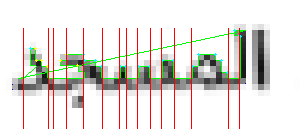
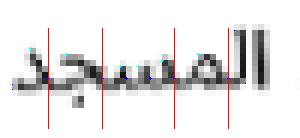
working on contour tracing

Changed region(s): [[0.06, 0.2029, 0.72, 0.9275], [0.72, 0.2029, 0.81, 0.9275], [0.72, 0.4348, 0.75, 0.5217]]

diff --git a/segmentation/contour.py b/segmentation/contour.py
@@ -82,19 +82,29 @@ left = list.index(leftmost)
 top = list.index(topmost)
 bottom = list.index(bottommost)
 l=[]
-print(base_line)
+splitting_index = 0
+# print(left)
+k=0
 for i in range(0,len(cnt)):
 	x = cnt[i][0][0]
 	y = cnt[i][0][1]
+	if x == leftmost[0]:
+		splitting_index = k
+
 	if y <= base_line :
+		k+=1
 		l.append([x,y])
-cv2.drawContours(image, [np.asarray(l)], 0, (0,255,0), 1)
-# cv2.drawContours(image, [cnt[0:interval2]], 0, (0,255,0), 1)
+		# print(x,leftmost[0])
+list =l[splitting_index+1:len(l)] + l[0:splitting_index] 
+# print(splitting_index,len(l))
+# cv2.drawContours(image, [np.asarray(l[0:splitting_index])], 0, (0,255,0), 1)
+# cv2.drawContours(image,[np.asarray(l[splitting_index+1:len(l)])], 0, (0,255,0), 1)
 
 cv2.imwrite("contoured.png",image)
 
-l.sort(key=lambda x:x[0])
-list=l
+list=list[::-1]
+# cv2.drawContours(image,[np.asarray(list[0:50])], 0, (0,255,0), 1)
+
 # print(defects)
 list_x=[]
 list_y=[]
@@ -103,15 +113,18 @@ list_y=[]
 # indexes = np.unique(list_x, return_index=True)[1]
 # list_x = [list_x[index] for index in sorted(indexes)]
 last_y = 0
-for i in range(len(list)):
-	y= list[i][1]
-	x= list[i][0]
-	# if(y != last_y ):
-	list_x.append(x)
-	list_y.append(y)
-	# last_y = y
-	# cv2.circle(image,(int(x),int(y)), 1, (0, 0, 255), -1)
 
+l=copy.copy(list)
+for i in range(len(l)):
+	y= l[i][1]
+	x= l[i][0]
+	if(y != last_y ):
+		list_x.append(x)
+		list_y.append(y)
+	else:
+		list.remove([x,y])
+	last_y = y
+	# cv2.circle(image,(int(x),int(y)), 1, (0, 0, 255), -1)
 
 # minimas = argrelextrema(np.asarray(list_x), np.less)
 # print(list_y)
@@ -119,71 +132,96 @@ maximas = (np.diff(np.sign(np.diff(np.asarray(list_y)))) > 0).nonzero()[0] + 1 #
 minimas = (np.diff(np.sign(np.diff(np.asarray(list_y)))) < 0).nonzero()[0] + 1 # local min
 # print([[list_x[i],list_y[i]] for i in maximas] )
 # print([[list_x[i],list_y[i]] for i in minimas] )
-max_min = [[list_x[i],list_y[i]] for i in maximas ]+[[list_x[i],list_y[i]] for i in minimas]
 
-min = []
-max = []
+min_list = []
+max_list = []
+
 
 for m in minimas:
 	x,y=[list_x[m],list_y[m]]
+	# print(base_line,y)
 	if(y < base_line):
+		list.remove([x,y])
 		continue
-	# cv2.circle(image,(int(x),int(y)), 1, (255, 0, 0), -1)
-	min.append(m)
+	cv2.circle(image,(int(x),int(y)), 1, (255, 0, 0), -1)
+	min_list.append([x,y])
+
+for i in range(len(list)) :
+	x = list[i][0]
+	y = list[i][1]
+	# cv2.circle(image,(int(x),int(y)),1, (0, 255,255), -1)
+    
 
 for m in maximas:
 	x,y=[list_x[m],list_y[m]]
+	max_list.append([x,y])
 	cv2.circle(image,(int(x),int(y)),1, (255, 255, 0), -1)
-cv2.circle(image,(47,66),1, (0, 255, 255), -1)
-cv2.circle(image,(60,60),1, (0, 255, 255), -1)
-cv2.circle(image,(66,54),1, (0, 255, 255), -1)
-cv2.circle(image,(77,65),1, (0, 255, 255), -1)
-cv2.circle(image,(41,60),1, (0, 255, 255), -1)
-cv2.circle(image,(36,60),1, (0, 255, 255), -1)
-cv2.circle(image,(35,48),1, (0, 255, 255), -1)
-
+min_max=[]
+for i in range(len(list)):
+	list_element=list[i]
+	try :
+		max_value = max_list.index(list_element)
+		min_max.append(list_element)
+	except:
+		pass
+	try:
+		min_value = min_list.index(list_element)
+		min_max.append(list_element)
+	except:
+		pass
+print(min_max)
+print(max_list)
+print(min_list)
 # max_min.sort(key=lambda x:x[0])
-print(max_min)
-# print(max_min)
-	# print(x,y)
-	# cv2.circle(image,(int(x),int(y)), 1, (255, 0, 0), -1)
-	# cv2.line(image,(int(x),int(y)),(int(x),int(y)+200),(0,255,255),2)
- 
-
-	# print(x,y)
-	# cv2.circle(image,(int(x),int(y)), 1, (0, 0, 255), -1)
+# print(min_max)
 cv2.imwrite("contoured.png",image)
 
 selected_mins = []
-for m in min:
-	x = list_x[m]
-	y = list_y[m]
-	# print(x,y)
-	m_index = max_min.index([x,y])
-	prev_max = m_index-1
-	next_max = prev_max + 2
-	if(prev_max < 0):
-		continue
-	if(next_max == len(max_min)):
-		continue
-	heigth_th = 1
-	width_th = 2
-	if(y < base_line):
-		continue
-	
-		# cv2.circle(image,(int(x),int(y)), 1, (0, 0, 255), -1)
-	cv2.line(image,(int(x),int(y)-50),(int(x),int(y)+50),(0,0,255),1)
-	selected_mins.append(m_index)
-min_width_th = 30
+splitting_points =[]
+char_width = []
+m_pairs =[]
+for m in range(len(min_list)):
+	[x,y] = min_list[m]
+	# print([x,y])
+	index = min_max.index([x,y])
+	prev = min_max[index-1]
+	# cv2.circle(image,(prev[0],prev[1]), 1, (0, 0, 255), -1)
+ 
+	# print(max)
+	# print(prev)
+	if prev in max_list :		
+		splitting_points.append([x,y])
+		# cv2.line(image,(int(x),int(y)-50),(int(x),int(y)+50),(0,0,255),1)
+prev_point = leftmost
+avg_char_width = 30
+avg_char_area = 600
+segmentation_points = []
+for s in splitting_points :
+	x = s[0]
+	y = s[1]
+	diff = x - prev_point[0]
+	index = min_max.index([x,y])
+	prev = min_max[index -1 ]
+	area = (base_line - prev[1])*(diff)
+	print(area)
+	# print(diff)
+	if(diff >= avg_char_width and  area > avg_char_area):
+		segmentation_points.append([x,y])
+		cv2.line(image,(int(x),int(y)-50),(int(x),int(y)+50),(0,0,255),1)
+		prev_point = s
+prev_point = leftmost
+for i in range(len(segmentation_points)):
 
-# check_for_sad, dad 
+	segment = segmentation_points[i]
+	# index = min_max.index(segment)
+	# prev = min_max[index -1 ]
+	# char = image[prev[1]:bottommost[1],prev_point[0]:segment[0]]
+	char = image[:,prev_point[0]:segment[0]]
+	print(prev_point[0],segment[0])
+	print(char)
+	cv2.imwrite(str(i+1)+".png",char)
+	prev_point = segment
 
-
-# check for seen ,sheen
-# for m in selected_mins:
-#     next_min = m + 1
-#     if(max_min[next_m] - max_min[m] < min_width_th )
-# 		continue
 cv2.imwrite("contoured.png",image)
 
 
